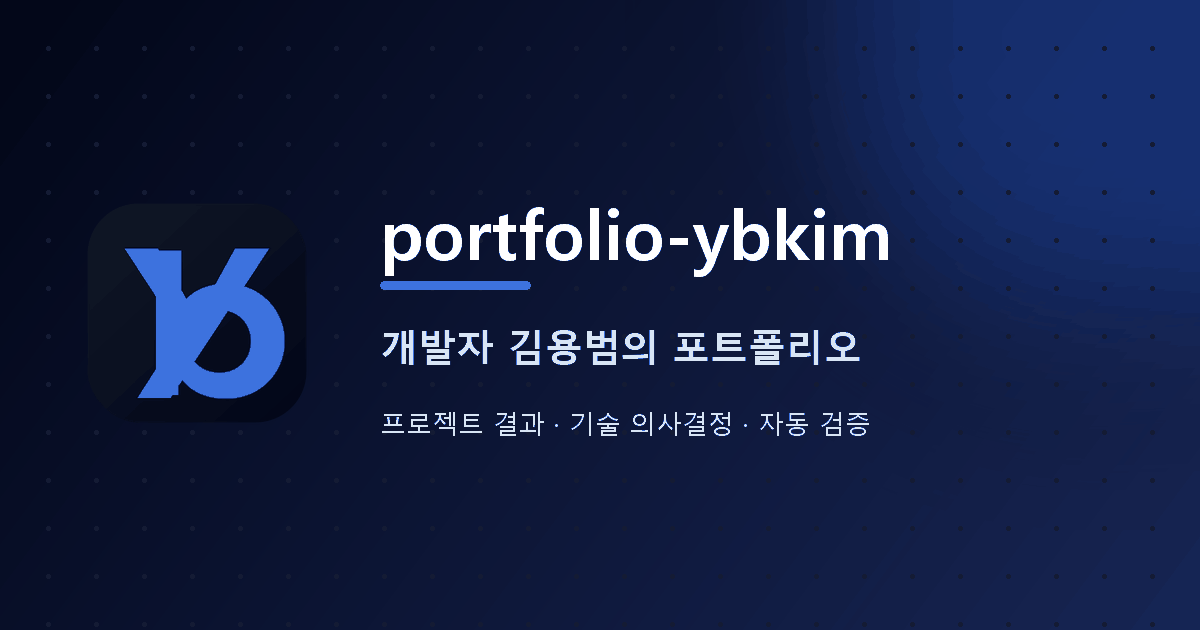
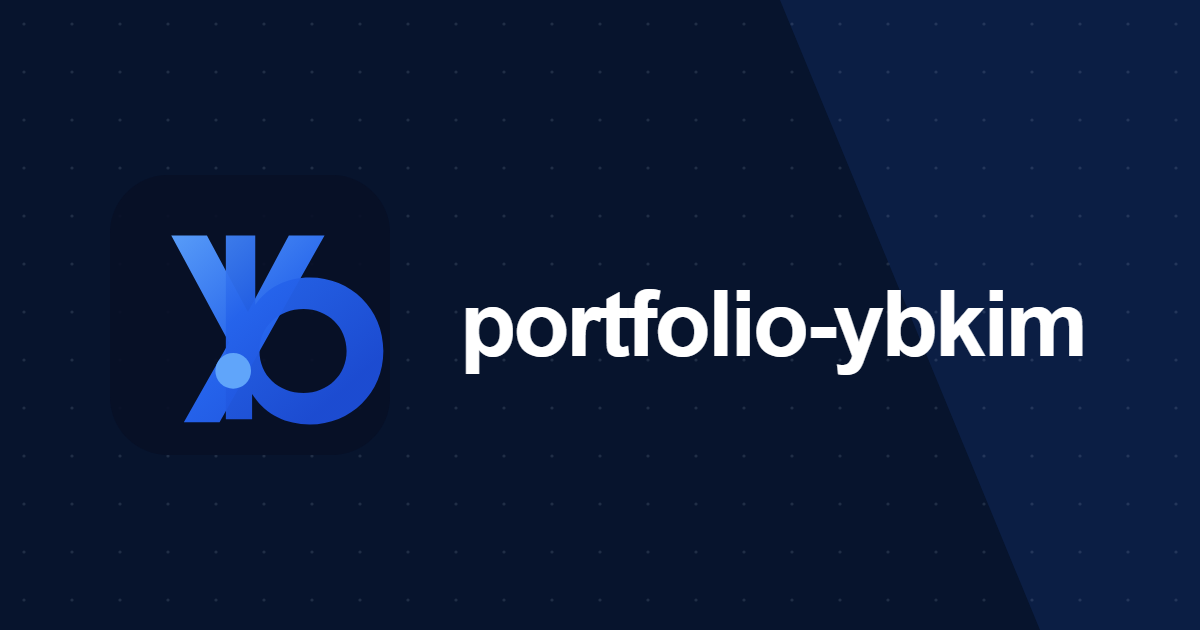
fix(brand): refine social preview artwork

diff --git a/src/data/site.ts b/src/data/site.ts
@@ -2,7 +2,7 @@ export const siteMetadata = {
   description:
     "프론트엔드 구현을 중심으로 프로젝트 결과, 기술 의사결정, 문서화와 자동 검증 과정을 함께 보여주는 웹 개발자 김용범의 포트폴리오입니다.",
   socialPreview: {
-    alt: "portfolio-ybkim - 개발자 김용범의 포트폴리오",
+    alt: "YB 로고와 portfolio-ybkim 이름이 있는 소셜 미리보기",
     height: 630,
     path: "/assets/brand/social-preview.png",
     width: 1200,

diff --git a/tests/discoverability.spec.ts b/tests/discoverability.spec.ts
@@ -2,7 +2,7 @@ import { expect, test, type Page } from "@playwright/test";
 
 const productionOrigin = "https://portfolio-ybkim.pages.dev";
 const socialPreviewUrl = `${productionOrigin}/assets/brand/social-preview.png`;
-const socialPreviewAlt = "portfolio-ybkim - 개발자 김용범의 포트폴리오";
+const socialPreviewAlt = "YB 로고와 portfolio-ybkim 이름이 있는 소셜 미리보기";
 
 const indexablePages = [
   {

diff --git a/docs/security/license-compliance.md b/docs/security/license-compliance.md
@@ -59,17 +59,19 @@ license credentials.
   ownership to the user as between the user and OpenAI.
 - **Modifications:** the selected logo, favicon, and home-screen artwork are
   unchanged. SVG accessibility metadata and the web app manifest were localized
-  for the Korean product. The 1200 by 630 social preview is a palette-optimized
-  derivative that reuses the approved `YB` mark and blue/slate identity while
-  replacing the unused English preview copy with reviewed Korean product copy.
+  for the Korean product. The budget-compliant 1200 by 630 social preview is a
+  derivative that reuses the approved `YB` mark and blue/slate identity. Its
+  editable SVG source keeps only the product name so social clients can present
+  the page-specific title and description without duplicate in-image copy.
 - **Obligations:** no third-party attribution or redistribution obligation was
   identified. The owner remains responsible for similarity and other
   third-party-rights review because generated output may not be unique.
 - **Notice Location:** root `NOTICE.md` and the visible site footer.
 - **Evidence:** the owner statement in the implementation request, the retained
-  source bundle README, the linked provider terms, and manual asset review.
+  source bundle README, `src/assets/brand/social-preview.svg`, the linked provider
+  terms, and manual asset review.
 - **Disposition:** Approved for the selected shipped subset, including the
-  localized social preview. Unused wordmarks, pattern, token CSS, and English
+  simplified social preview. Unused wordmarks, pattern, token CSS, and English
   social preview remain outside the production asset tree.
 
 ### Pretendard Variable web font
